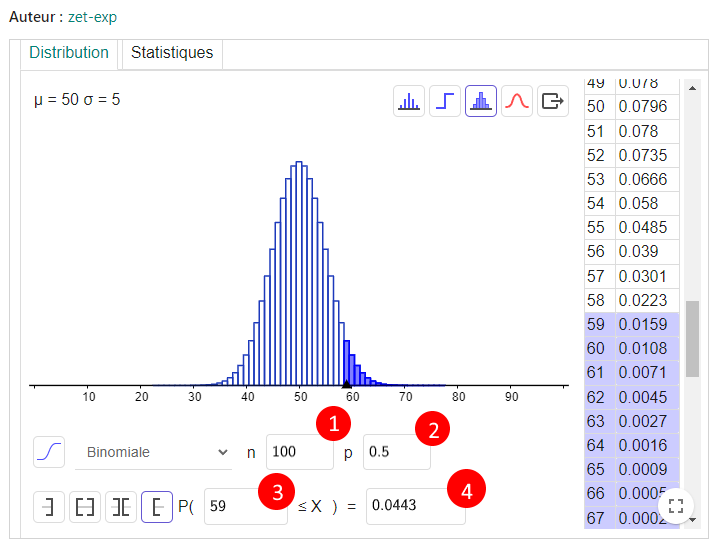
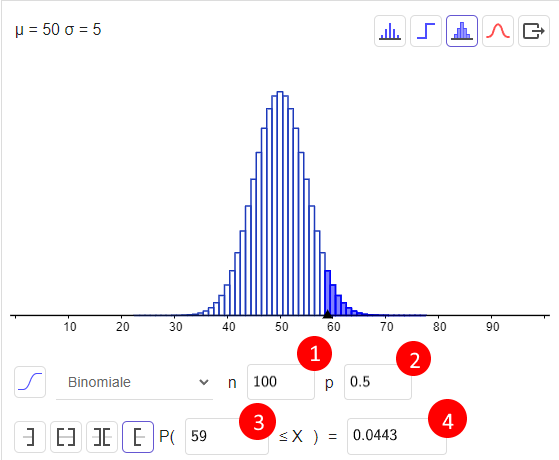
add on 'feeling future' p-value explain

diff --git a/src/app/custom/feeling-future/feeling-future.component.html b/src/app/custom/feeling-future/feeling-future.component.html
@@ -5,7 +5,7 @@
             <div class="shape shape-style-1 shape-default">
             </div>
         </section>
-        <section class="section section-sm ">
+        <section class="section section-sm  pt-0 ">
             <form name="feelingFutureForm" role="form" [formGroup]="feelingFutureForm">
                 <div class="container py-lg-md d-flex">
                     <div class="col px-0">
@@ -86,7 +86,7 @@
                 </div>
             </form>
         </section>
-        <section class="section section-sm">
+        <section class="section section-sm  pt-0">
             <div class="container  d-flex">
                 <div class="col px-0">
                     <div>
@@ -139,24 +139,26 @@
                 </div>
             </div>
         </section>
-        <section class="section section-sm">
+        <section class="section section-sm  pt-0">
             <div class="container  d-flex">
                 <div class="col px-0">
                     <div class="row">
                         <div class="col-sm-12">
-                            <h4> Hypothèse testée :</h4>
+                            <h4> Hypothèses:</h4>
                         </div>
                     </div>
                     <div class="row">
                         <div class="col-sm-12">
-                            Notre physiologie peut anticiper des simulies érotiques imprévisibles avant qu'ils ne
+                            Hypothese testée : Notre physiologie peut anticiper des simulies érotiques imprévisibles avant qu'ils ne
                             surviennent.
+                            <br>
+                            Hypothese nulle : L'humain ne fait pas mieux que le hazard
                         </div>
                     </div>
                 </div>
             </div>
         </section>
-        <section class="section section-sm">
+        <section class="section section-sm  pt-0">
             <div class="container  d-flex">
                 <div class="col px-0">
                     <div class="row">
@@ -181,7 +183,7 @@
                                 <li>Le participant doit essayer de deviner sous quel rideau se trouve l’image grâce au
                                     bouton gauche ou droite
                                 </li>
-                                <li>Une fois la sélection faite par le participant le rideau se levé et dévoile le
+                                <li>Une fois la sélection faite par le participant le rideau se leve et dévoile le
                                     résultat soit une image (érotique ou non érotique) soit un carré blanc si l’image
                                     était sous l’autre rideau
                                 </li>
@@ -189,7 +191,7 @@
                                     bouton « image suivante »
                                 </li>
                                 <li>Il n’y a pas de limite de temps ou de nombre de prédictions mais plus le nombre de
-                                    prédiction est importante plus la p-value a de sens
+                                    prédiction est importante plus la p-value a du sens
                                 </li>
                                 <li>Si la p-value d’une session de plus de 100 images est inferieur a 5% veuillez nous
                                     contacter par mail contact@zet-exp.fr avec votre pseudo utilisé
@@ -200,7 +202,7 @@
                 </div>
             </div>
         </section>
-        <section class="section section-sm">
+        <section class="section section-sm  pt-0">
             <div class="container  d-flex">
                 <div class="col px-0">
                     <div class="row">
@@ -235,7 +237,7 @@
                 </div>
             </div>
         </section>
-        <section class="section section-sm">
+        <section class="section section-sm  pt-0">
             <div class="container  d-flex">
                 <div class="col px-0">
                     <div class="row">
@@ -255,7 +257,7 @@
                 </div>
             </div>
         </section>
-        <section class="section section-sm">
+        <section class="section section-sm  pt-0">
             <div class="container  d-flex">
                 <div class="col px-0">
                     <div class="row">
@@ -281,7 +283,7 @@
                 </div>
             </div>
         </section>
-        <section class="section section-sm">
+        <section class="section section-sm  pt-0">
             <div class="container  d-flex">
                 <div class="col px-0">
                     <div class="row">
@@ -290,15 +292,36 @@
                         </div>
                     </div>
                     <div class="row">
+                        <div class="col-sm-6">
+                           <img src="assets/img/feeling-future/feeling-future-p-value.png" class="w-100">
+                        </div>
+
+                        <div class="col-sm-6">
+                            Une distribution binomial correspond a une probabilité de réponse au hazard <br>
+                            Elle a les caractéristiques suivante :
+                            <ol>
+                                <li>Le nombre d'essaie (ici les images uniquement erotique testées) </li>
+                                <li>La probabilité de reussir par le hazard (ici 1 chance sur 2 soit 0.5)</li>
+                                <li>Le nombre de reussite (ici les images erotique trouvées par le participant) </li>
+                                <li>La P-Value</li>
+                            </ol>
+                        </div>
+                    </div>
+                    <div class="row mt-3">
                         <div class="col-sm-12">
-                            calculer la P-value etc
+                           Une P-Value en dessous de 5 % (moins de 0.05)  en parapsychologie est considéré comme une forte présomption <strong>contre</strong> l'hypothèse nulle<br>
+                           Cela ne signifie pas que l'hypothese testée est vrai mais que le hazard n'est plus l'hypothese par defaut<br>
+
+                            Pour tester votre P-Value une application est préconfiguré   <a href="https://www.geogebra.org/m/pfxjdeqk" target="_blank">sur le site géogebra</a><br>
+                            En modifiant le nombre d'essaie et le nombre de reussite avec vos résultats vous obtiendrais votre P-Value (plus le nombre d'essaie est important , plus la P-Value est significative)
+
                         </div>
                     </div>
                 </div>
             </div>
         </section>
 
-        <section class="section ">
+        <section class="section pt-0 ">
             <div class="container  d-flex">
                 <div class="col px-0">
 
@@ -321,6 +344,8 @@
                                     anomalous anticipation of random future events</a></li>
                                 <li>Wikipedia : <a href="https://fr.wikipedia.org/wiki/Valeur_p"
                                                    target="_blank">Valeur p</a></li>
+                                <li>Hygiène Mentale : <a href="https://www.youtube.com/watch?v=pyj6ysoUBNw&ab_channel=Hygi%C3%A8neMentale" target="_blank">Ep13 Comment Tester le Paranormal avec la Science ? (Les cartes de Zener)</a>    </li>
+
                             </ul>
                         </div>
                     </div>
